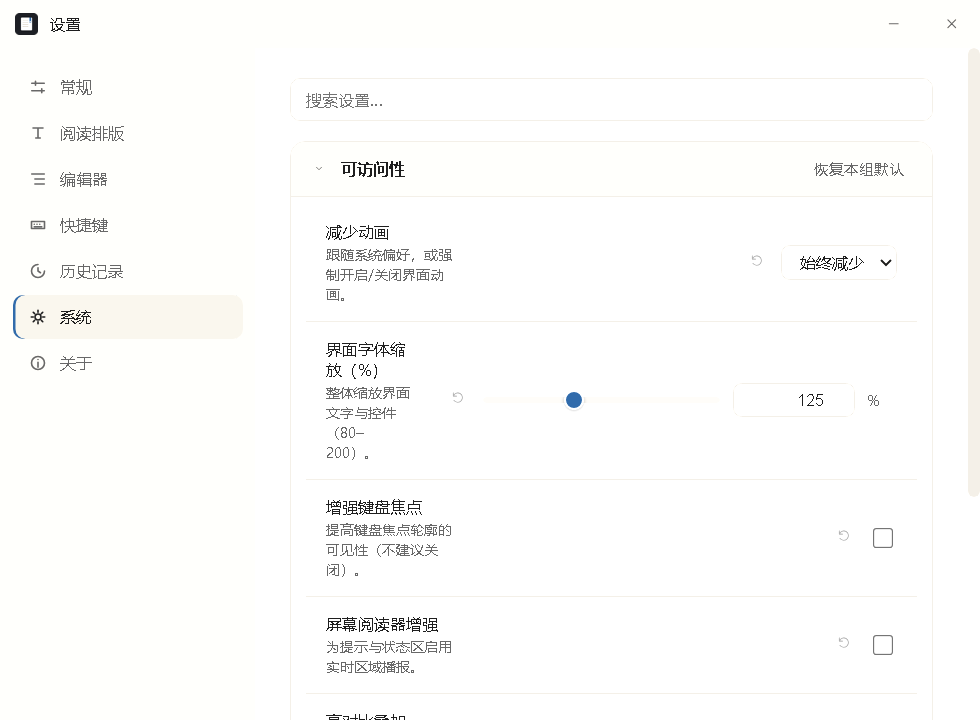
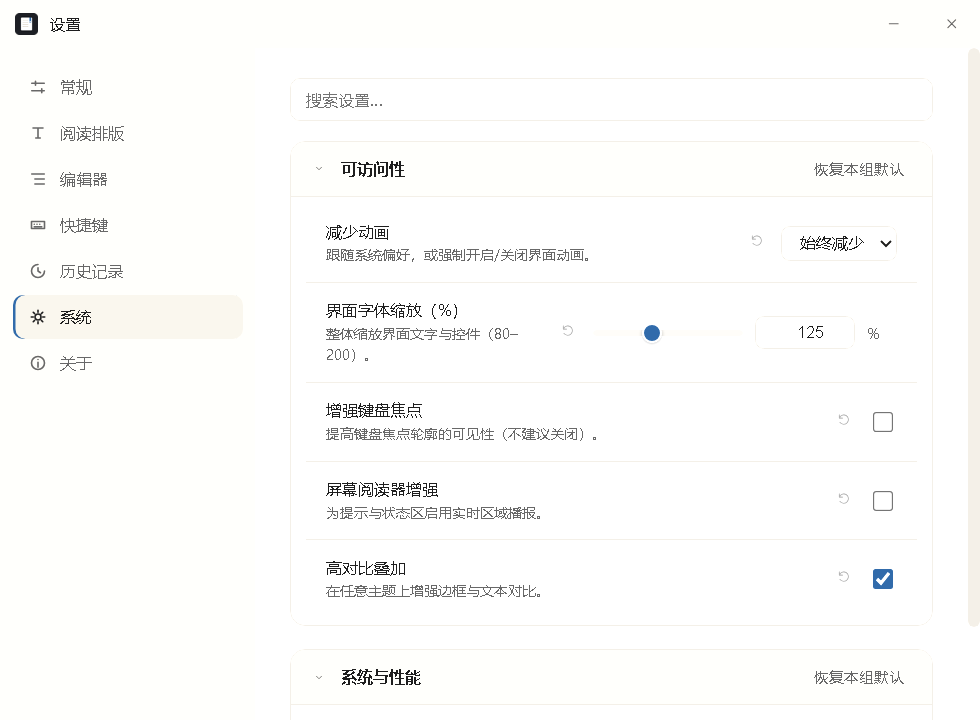
style(ai): 设置行两列自适应与描述限两行（修 125% 缩放溢出与标题断行）

diff --git a/src/windows/settings/settings.css b/src/windows/settings/settings.css
@@ -28,30 +28,37 @@
 }
 
 .label {
-  flex: 1;
+  flex: 1 1 auto;
   display: flex;
   flex-direction: column;
   gap: 2px;
-  min-width: 0;
+  min-width: 180px;
 }
 
+/* 描述：最多两行，超出省略，避免长文案把行撑得参差 */
 .label small {
   color: var(--muted);
   font-size: 11.5px;
+  line-height: 1.5;
+  display: -webkit-box;
+  -webkit-line-clamp: 2;
+  -webkit-box-orient: vertical;
+  overflow: hidden;
 }
 
 .control {
   display: flex;
   align-items: center;
   gap: 10px;
-  min-width: 340px;
+  flex: 0 1 auto;
+  min-width: 0;
   justify-content: flex-end;
 }
 
 /* 滑块：自绘轨道与拇指（Chromium 原生外观过小） */
 .control input[type='range'] {
   flex: 1;
-  min-width: 190px;
+  min-width: 120px;
   height: 20px;
   margin: 0;
   background: transparent;
@@ -123,7 +130,9 @@
 }
 
 .control .text-input {
-  width: 260px;
+  flex: 1 1 auto;
+  min-width: 200px;
+  max-width: 300px;
   padding: 5px 10px;
   border: 1px solid var(--line);
   border-radius: 7px;
